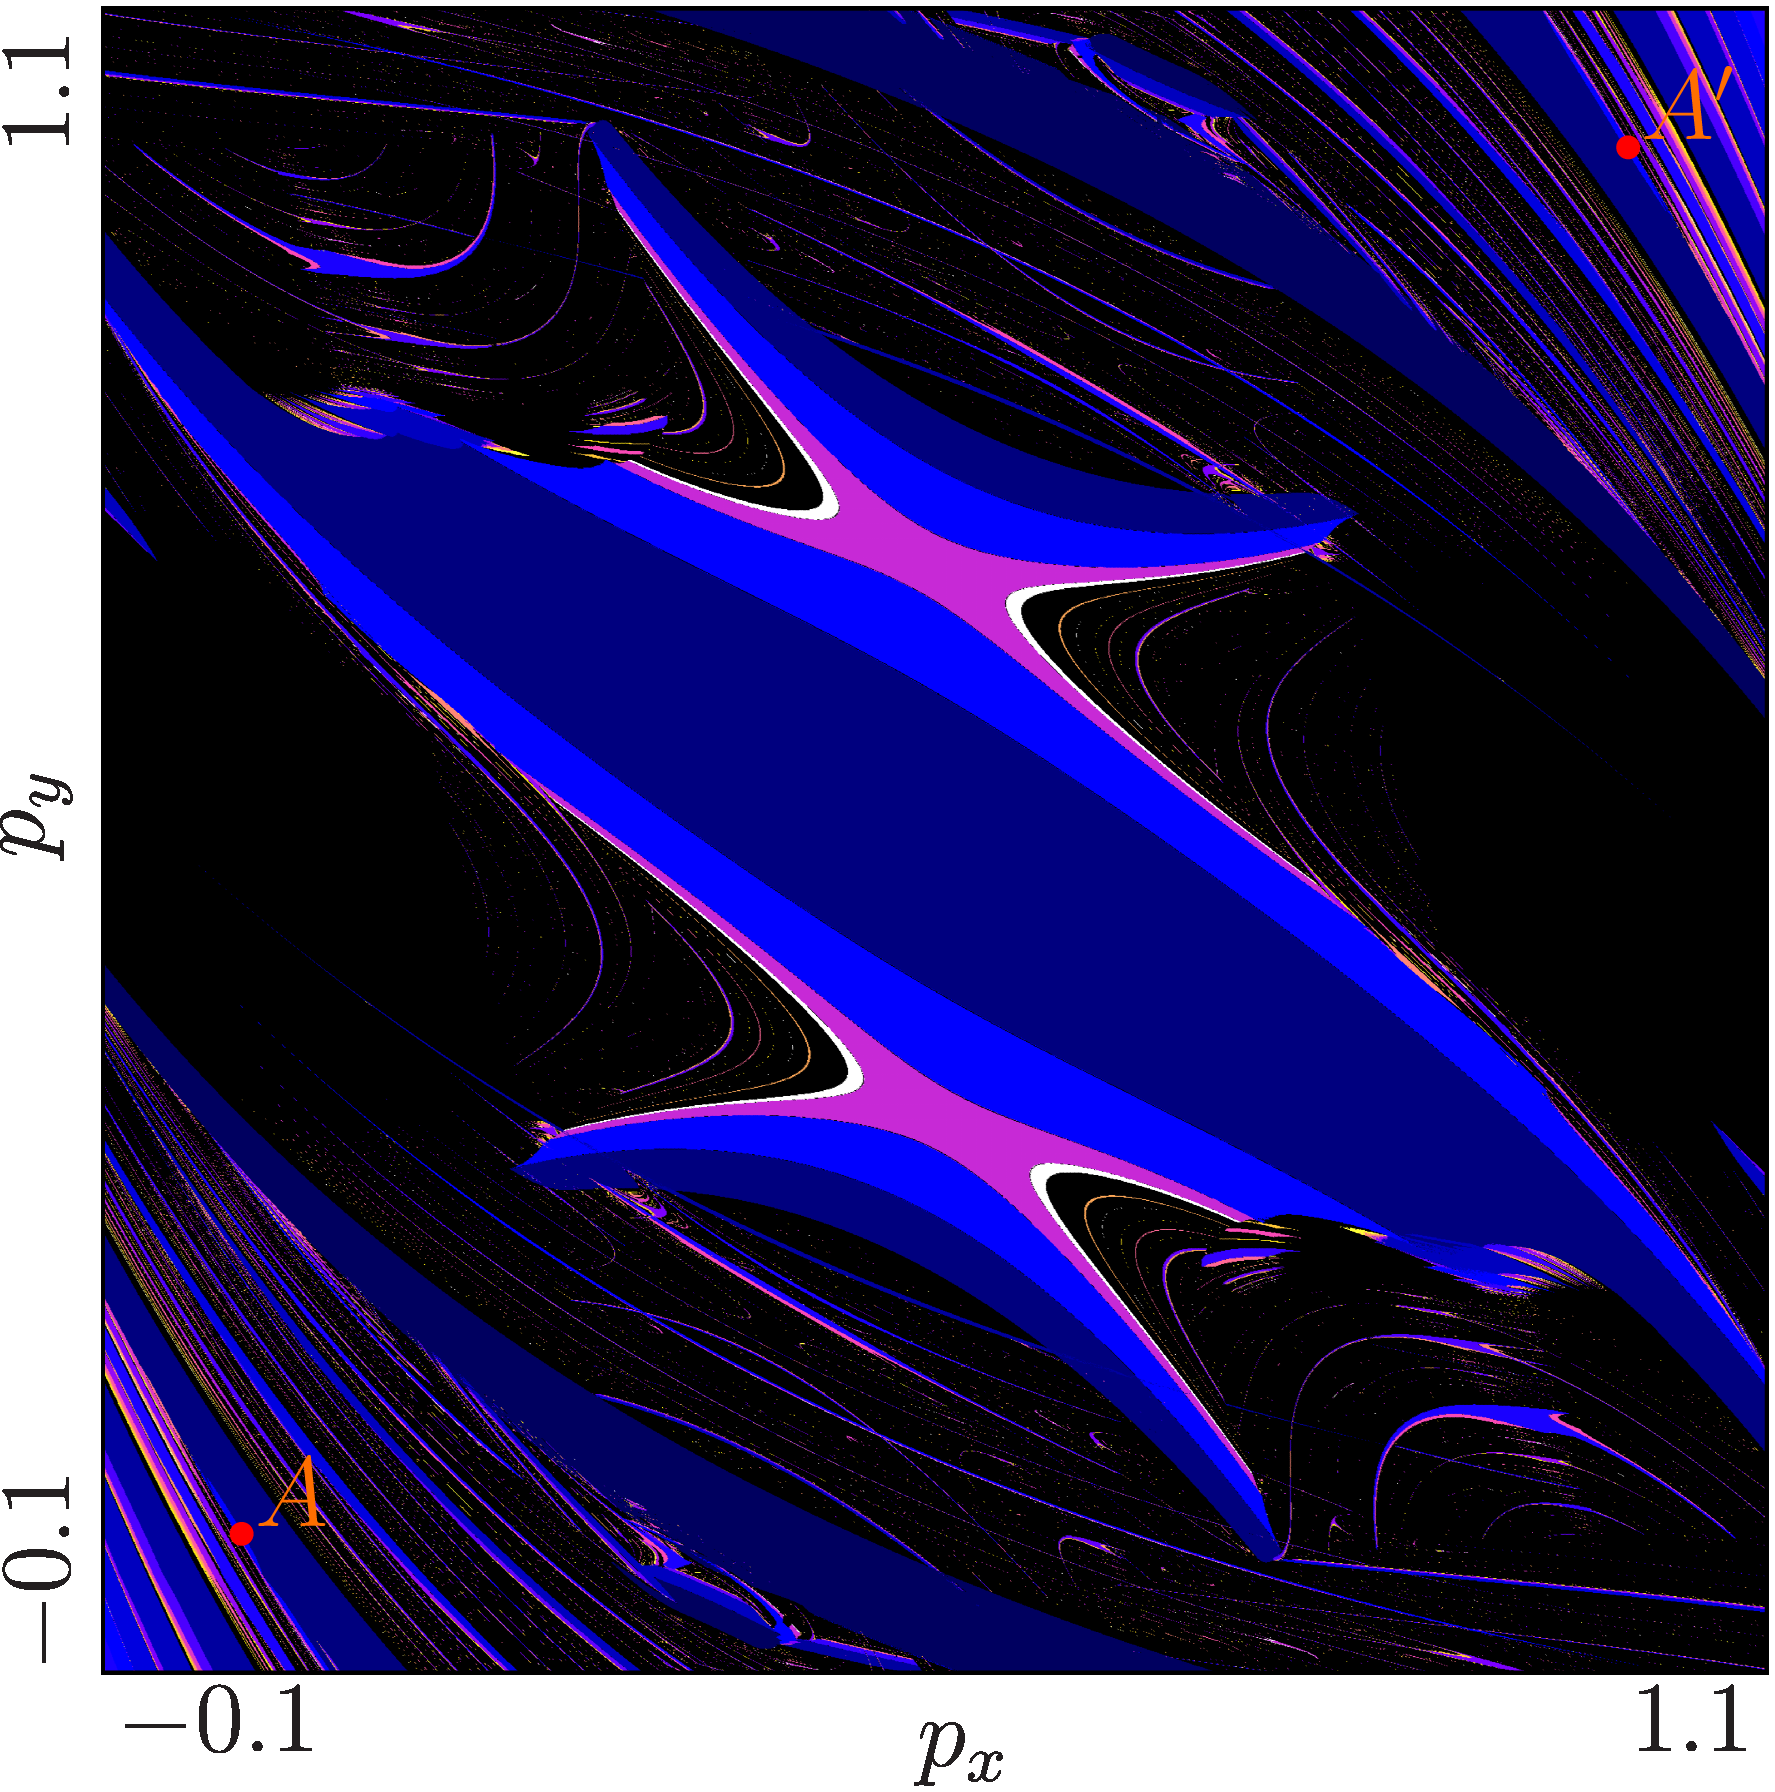
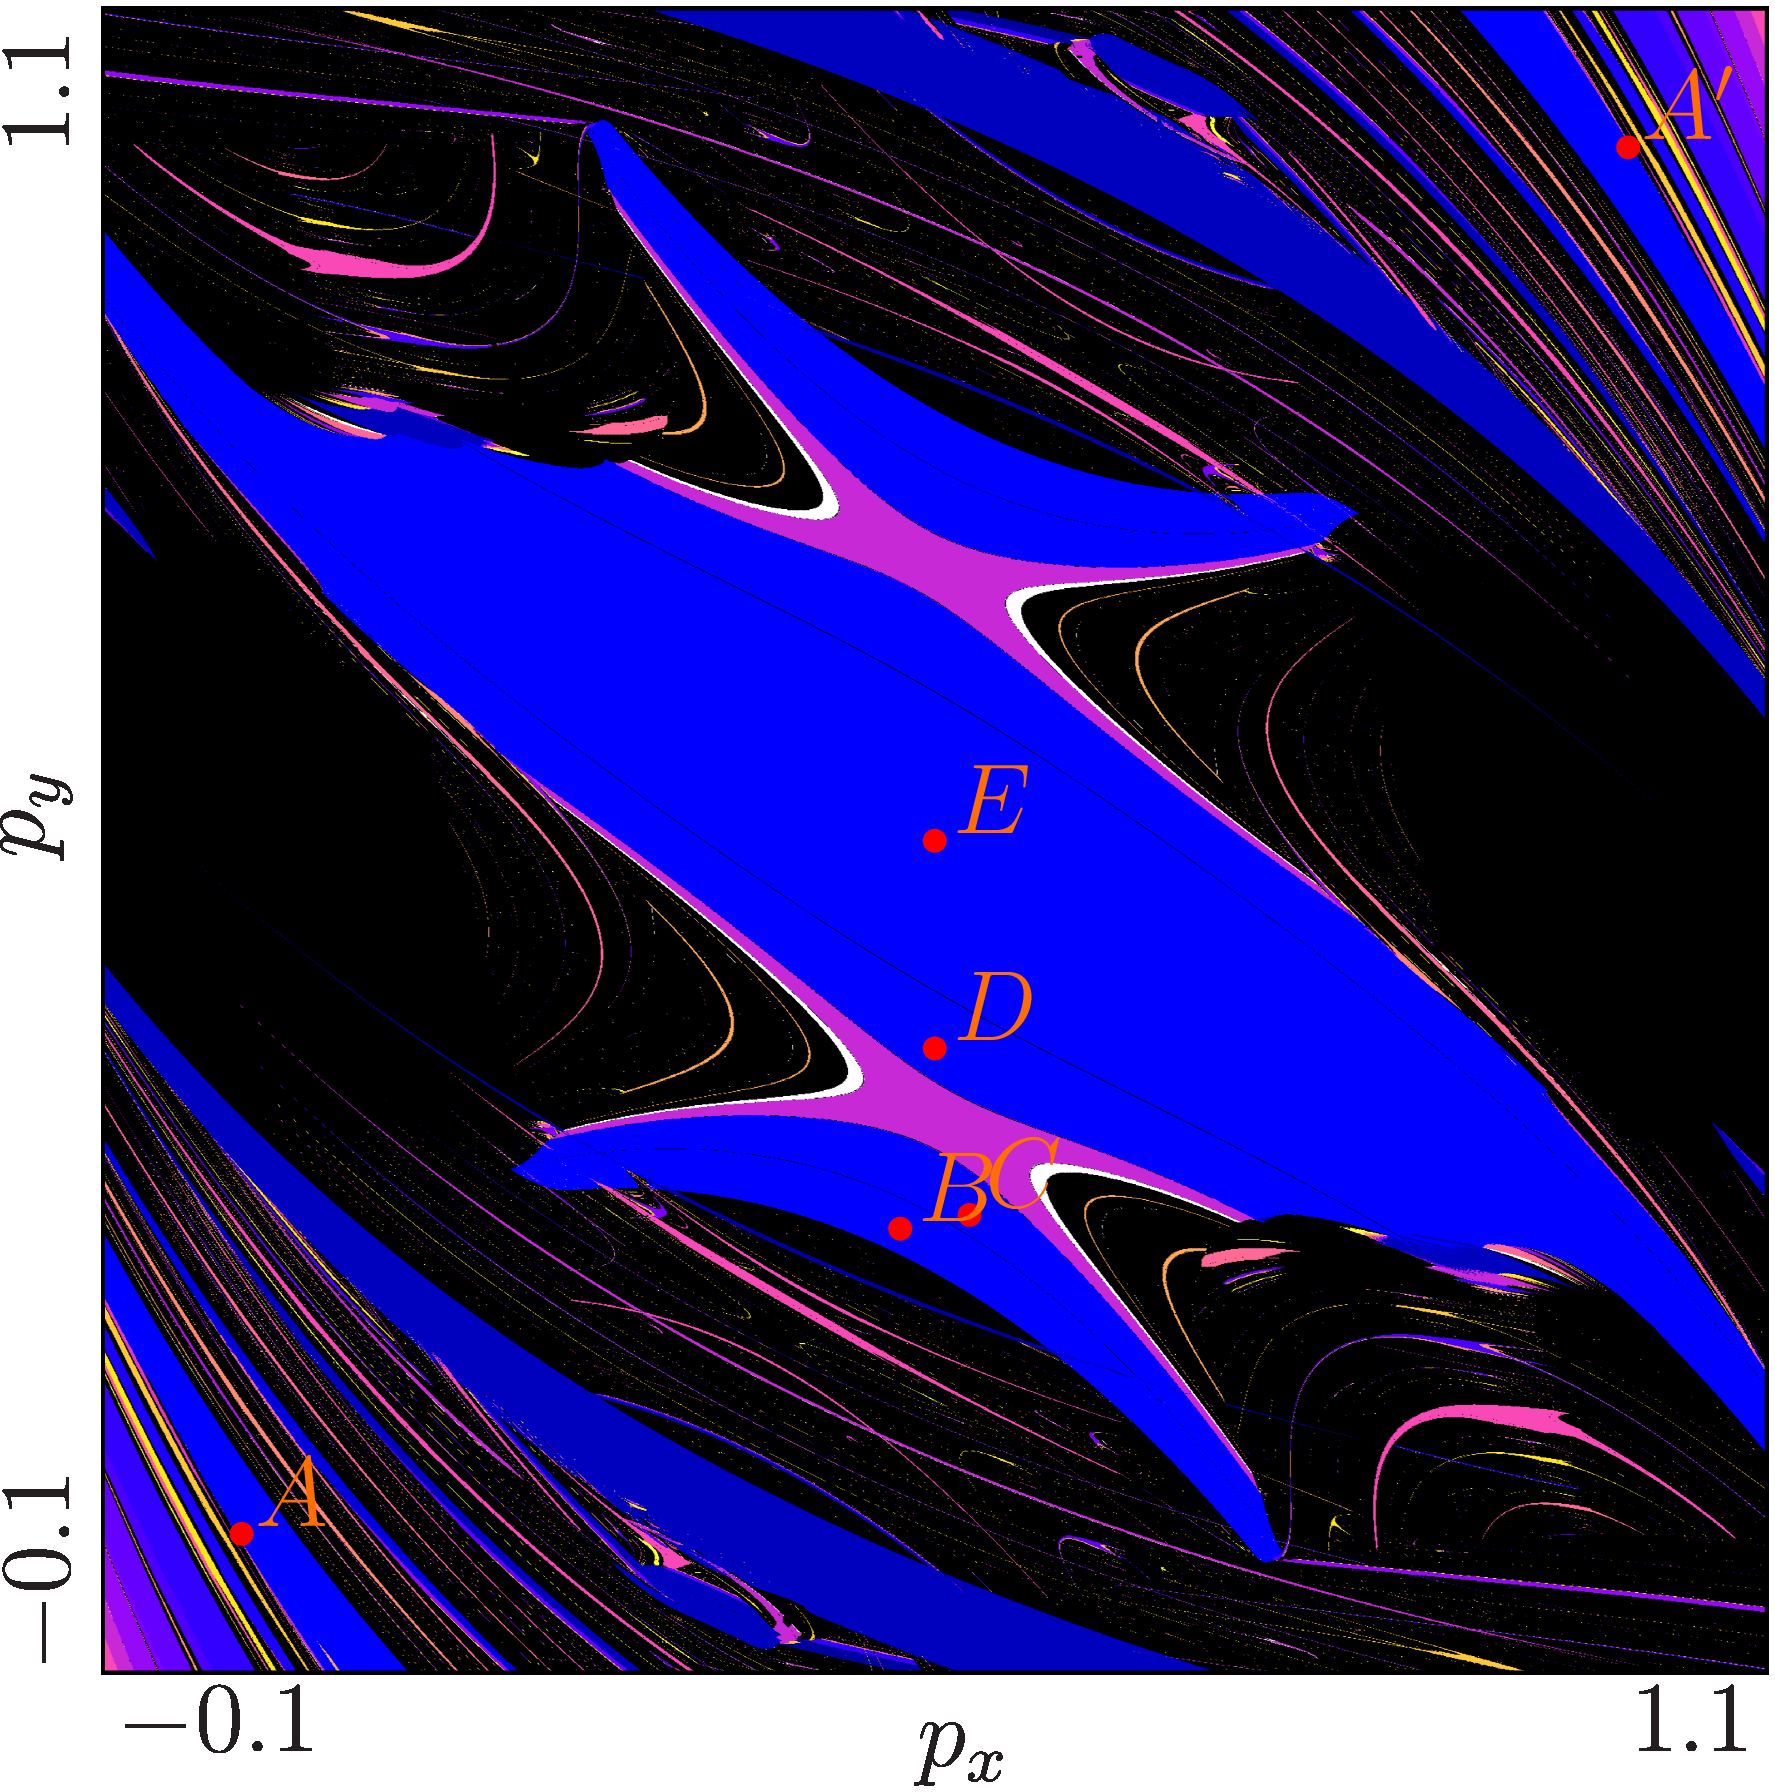
write about mirroring period 8

diff --git a/Report/Sections/50_Models/23_compound.tex b/Report/Sections/50_Models/23_compound.tex
@@ -211,3 +211,30 @@ And it has the same period, therefore the points in the type B area must be dist
     \caption{Cobweb at Point $E$}
     \label{fig:quadratic.full.2aR1bR_mirr.1.CobwebE}
 \end{figure}
+
+Repeating the same spiel for the second, lower parameter region for period 8 cycles, we arrive at the scans shown in \Cref{fig:quad.full.2aR1bR_cL_mirr.2.Period}.
+The first scan shows the normal model with points in parameter regions of period 8.
+We can see from this scan, that these regions are disjunct and therefore don't overlap.
+To make sure, there are no type A and type B regions overlapping inside one of the large parameter 8 regions, we half the model and scan again.
+This scan is shown in \Cref{fig:quad.full.2aR1bR_cL_mirr.2.Halved}.
+As we can see, the regions are either a little lighter or a little darker, but monotone.
+This means, that there are no overlapping type A and type B parameter regions.
+Therefore we do not investigate this model any further.
+
+\begin{figure}
+    \centering
+    \begin{subfigure}{0.4\textwidth}
+        \centering
+        \includegraphics[width=\textwidth]{21_013_Quadratic_2aR1bR_mirror2/2D_Period_Whole/result.png}
+        \caption{Full Model}
+        \label{fig:quad.full.2aR1bR_cL_mirr.2.whole}
+    \end{subfigure}
+    \begin{subfigure}{0.4\textwidth}
+        \centering
+        \includegraphics[width=\textwidth]{21_013_Quadratic_2aR1bR_mirror2/2D_Period_Whole/result_halved.png}
+        \caption{Halved Model}
+        \label{fig:quad.full.2aR1bR_cL_mirr.2.Halved}
+    \end{subfigure}
+    \caption{2D Period Scans of ...}
+    \label{fig:quad.full.2aR1bR_cL_mirr.2.Period}
+\end{figure}

diff --git a/Simulation/Models/21_013_Quadratic_2aR1bR_mirror2/model.cpp b/Simulation/Models/21_013_Quadratic_2aR1bR_mirror2/model.cpp
@@ -47,10 +47,10 @@ bool f(
     }
 
     // normalize
-    y = remainder(y, 1 * n);
+    y = remainder(y, 2 * n);
     
     while (y < 0) {
-        y += 1 * n;
+        y += 2 * n;
     }
 
     RHS[0] = y;
